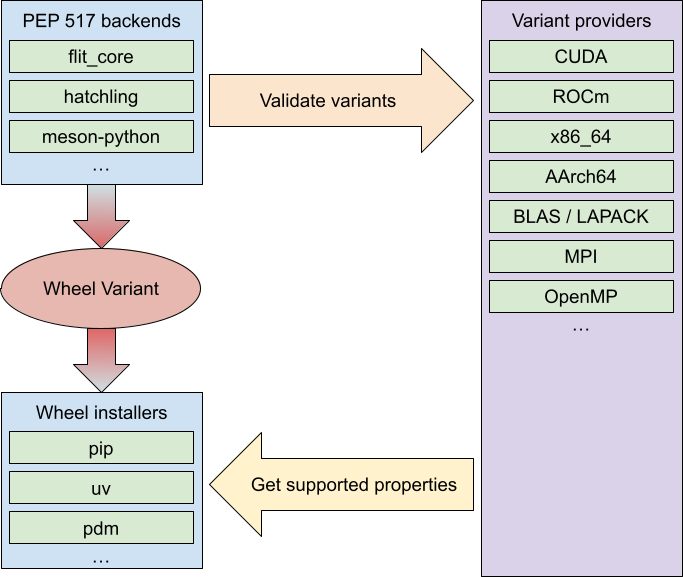
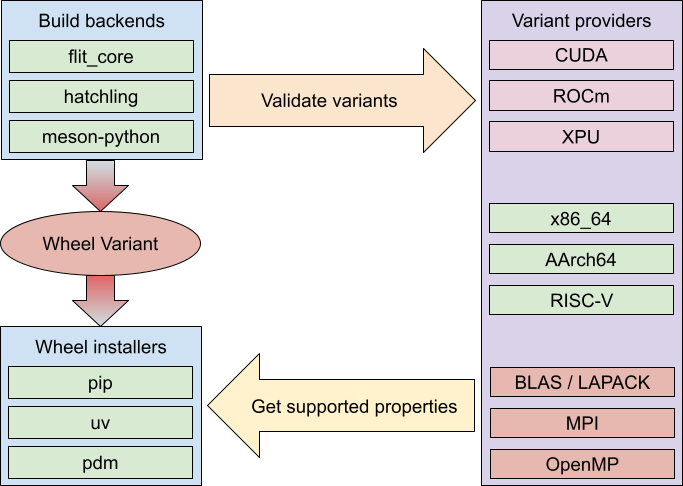
Most of the text, and some more figure work

diff --git a/apps/labs/posts/python-wheels-from-tags-to-variants.md b/apps/labs/posts/python-wheels-from-tags-to-variants.md
@@ -233,7 +233,7 @@ This is how we reached an architecture based on plugins.
 <div style={{ textAlign: "center" }}>
 <figure style={{width: 'auto', margin: '0 2em', display: 'inline-block', verticalAlign: 'top'}}>
   <img src="/posts/python-wheels-from-tags-to-variants/variant-flow.png"
-    width="683" height="577" alt="A flow chart showing interaction between
+    width="683" height="486" alt="A flow chart showing interaction between
 wheel-related software and provider plugins. A build backend (such
 as flit_core, hatchling, meson-python…) produces a Wheel Variant, which is
 then consumed by a wheel installer (pip, uv, pdm…). Alongside them, variant
@@ -267,10 +267,12 @@ we expect variant providers to be developed largely independently, putting
 these features in namespaces makes it possible to organize them logically
 and avoid name collisions. Consider the following example:
 
-<pre>nvidia :: cuda_version_lower_bound :: 12.6
+```rust
+nvidia :: cuda_version_lower_bound :: 12.6
 nvidia :: cuda_version_upper_bound :: 13
 x86_64 :: level :: v3
-x86_64 :: sha_ni :: on</pre>
+x86_64 :: sha_ni :: on
+```
 
 Yes, the syntax was inspired by [trove classifiers](https://pypi.org/classifiers/)!
 Every property is a 3-element tuple consisting of the namespace (one per plugin
@@ -503,10 +505,12 @@ order: determined by its namespace, feature name and value ordering.
 
 Let's return to our initial example and add sort keys to it:
 
-<pre>(1.1.3) nvidia :: cuda_version_lower_bound :: 12.6
-(1.2.m) nvidia :: cuda_version_upper_bound :: 13
-(2.1.1) x86_64 :: level :: v3
-(2.3.1) x86_64 :: sha_ni :: on</pre>
+```rust
+nvidia :: cuda_version_lower_bound :: 12.6  // 1.1.3
+nvidia :: cuda_version_upper_bound :: 13    // 1.2.m
+x86_64 :: level :: v3                       // 2.1.1
+x86_64 :: sha_ni :: on                      // 2.3.1
+```
 
 We sort variants according to the properties they have. While this may
 seem complex at first, it effectively follows a single rule: a variant having
@@ -552,7 +556,7 @@ provider plugin, package, user. Namespaces are shown to be ordered by the packag
 and optionally reordered by the user. Both features and their values are shown
 to be ordered by the plugin, then optionally reordered by the package and the
 user. Finally, all three keys combine into a sort key." />
-  <figcaption>Fig. Example sort order of properties</figcaption>
+  <figcaption>Fig. Ordering and construction of a property sort key</figcaption>
 </figure>
 </div>
 
@@ -590,10 +594,12 @@ and packages. And since it's no longer obligatory, having that is not a pr
 Let's consider that you are distributing a package with three CUDA variants,
 and a CPU variant. The published wheels are, in order of preference:
 
-<pre>torch-2.8.0-cp313-cp313-manylinux_2_28_x86_64-cu129.whl
+```rust
+torch-2.8.0-cp313-cp313-manylinux_2_28_x86_64-cu129.whl
 torch-2.8.0-cp313-cp313-manylinux_2_28_x86_64-cu128.whl
 torch-2.8.0-cp313-cp313-manylinux_2_28_x86_64-cu126.whl
-torch-2.8.0-cp313-cp313-manylinux_2_28_x86_64.whl        # CPU-only</pre>
+torch-2.8.0-cp313-cp313-manylinux_2_28_x86_64.whl        // CPU-only
+```
 
 Such a setup provides for a graceful fallback. When you are using an older
 CUDA version, the top variants are filtered out and the lower variants are used.
@@ -609,11 +615,13 @@ CUDA version).
 
 This is where the null variant comes in. Consider the following instead:
 
-<pre>torch-2.8.0-cp313-cp313-manylinux_2_28_x86_64-cu129.whl
+```rust
+torch-2.8.0-cp313-cp313-manylinux_2_28_x86_64-cu129.whl
 torch-2.8.0-cp313-cp313-manylinux_2_28_x86_64-cu128.whl
 torch-2.8.0-cp313-cp313-manylinux_2_28_x86_64-cu126.whl
-torch-2.8.0-cp313-cp313-manylinux_2_28_x86_64-00000000.whl  # CPU-only
-torch-2.8.0-cp313-cp313-manylinux_2_28_x86_64.whl           # CUDA + CPU</pre>
+torch-2.8.0-cp313-cp313-manylinux_2_28_x86_64-00000000.whl  // CPU-only
+torch-2.8.0-cp313-cp313-manylinux_2_28_x86_64.whl           // CUDA + CPU
+```
 
 What we added here is a null variant, with label `00000000`. Since it has
 no properties, it is always supported — that is, as long as variants
@@ -625,7 +633,167 @@ CUDA and CPU support.
 
 Does it really matter? Well, that depends on how you look at it. While wheel
 variant support remains early, backwards compatibility is going to be important.
-And providing a different fallback may mean the difference between a 175 MiB
-CPU-only wheel, and a 850 MiB CUDA wheel.
+And providing a different fallback may mean the difference between installing
+a 175 MiB CPU-only wheel, and a 850 MiB CUDA wheel installed on a system
+without the CUDA runtime.
+
+## Multiple property values
+
+So far, we have discussed wheels that have a single value for every feature
+used. Say, a wheel that is optimized for a particular CPU architecture version,
+or has one CUDA version lower bound and one upper bound. The key point here
+is that for a variant to be compatible, all its features had to have a value
+compatible with the system in question. This logic is conjunctive — representing
+logical `AND`. You need to have a supported CPU, and a CUDA version that is
+not older than the lower bound, and a CUDA version (the same one) that is older
+than the upper bound.
+
+A interesting case for this logic are CPU instruction sets. Each
+instruction set is represented by a separate feature, with a single possible
+value of `on`. If the user's CPU supports a given instruction set, it supports
+said `on` value; if it doesn't, it has no compatible values. A wheel requiring
+said instruction set includes this property with the `on` value.
+And for the wheel to be compatible, all its features — in other words, all
+listed instruction sets — need to be supported.
+
+Now consider a converse example: you are building a CUDA-enabled package
+that supports half a dozen series of GPUs. You don't want to build a separate
+wheel for every GPU — that would be a lot of wheels with significant overlap.
+You want to build a single wheel and declare it compatible with multiple GPUs.
+Conjunctive logic can't work here — you need disjunction, an `OR`.
+
+Specifically for this use case, we introduced the ability to specify multiple
+values for the same feature — with the assumption that at least one value
+must be supported for the wheel to be compatible. Consider the following
+property list:
+
+```rust
+nvidia :: sm_arch :: 70_real
+nvidia :: sm_arch :: 75_real
+nvidia :: sm_arch :: 80_real
+nvidia :: sm_arch :: 86_real
+nvidia :: sm_arch :: 90_real
+nvidia :: sm_arch :: 100_real
+nvidia :: sm_arch :: 120_real
+nvidia :: sm_arch :: 120_virtual
+```
+
+It is equivalent to the following build parameter:
+
+```sh
+TORCH_CUDA_ARCH_LIST="7.0;7.5;8.0;8.6;9.0;10.0;12.0+PTX"
+```
+
+Note the reversal of semantics. Previously, the wheel did declare what
+it _required_, and the plugin would indicate what the system _provided_.
+Here, we are seeing the exact opposite: the wheel declares what it _supports_,
+and the plugin declares what support the system _requires_. Your system has
+some GPU and therefore _requires_ its support in the package. If said architecture
+is on the list of *supported* architectures, the wheel is considered compatible;
+if it is not, it is rejected.
+
+Of course, the specification is far from providing an exhaustive boolean logic
+that could support all possible use cases. For example, you can't express
+a wheel that provides _both_ CUDA and ROCm support, and that would be compatible
+with a system that has either CUDA or ROCm capability, but incompatible
+with a system without either. Nor can you express that your package has
+two algorithms using different sets of instruction sets, but requires at least
+one of them. However, our goal so far was to keep things simple whenever
+possible, and focus on the most likely use cases. And in the end, it is always
+possible (though not necessarily recommended) to create a dedicated provider
+plugin to cover the specific use case.
+
+So, at this point, different features are conjunctive (_all_ of them must
+be supported), but different values within a single feature are disjunctive
+(_at least one_ of them must be supported).
 
 ## Static and dynamic plugins
+
+So far we have been assuming that the lists of allowed features and their
+values are roughly fixed. A particular version of the `x86_64` plugin implements
+the properties for a certain range of architecture levels: say, `v4` and lower.
+We can't predict what `v5` will be like, and a new plugin version will need
+to be released to introduce its support. However, this is not a huge problem,
+as new architecture levels are introduced relatively rarely. This is what
+a static plugin is — one where the list of all valid property values
+is supposed to remain the same within a single version, and therefore the list
+ofsupported properties is independent of what packages are being installed.
+
+Now let's consider a different use case: we need to express a dependency
+on a runtime whose version changes frequently, and is not predictable.
+Said version could be `1.0.0`, `1.2.2`, `2.0.10`, `2.3.99`… We're facing
+two problems here. Firstly, the list of all valid values can be very long
+(to be precise, infinitely long). Secondly, we can't fully predict what
+the future versions will be.
+
+Let's start with the lower bound. If the system has version `1.2.2` installed,
+the plugin needs to be declare compatibility with wheels that have a lower bound
+no higher than that: `>=1.2.2`, `>=1.2.1`, `>=1.2.0`… but what is the highest
+value of `>=1.1.n` that we need to support? And what if sometimes upstream
+releases four-component versions, like `1.2.2.1`? With upper bound, things
+get even worse. Here we actually have to declare compatibility with versions
+higher than the current version: `<1.2.4`, `<1.2.5`… ad infinitum.
+
+<div style={{ textAlign: "center" }}>
+<figure style={{width: 'auto', margin: '0 2em', display: 'inline-block', verticalAlign: 'top'}}>
+  <img src="/posts/python-wheels-from-tags-to-variants/variant-flow-dynamic.png"
+    width="683" height="486" alt="A flow chart showing interaction between
+wheel-related software and dynamic provider plugins. A build backend (such
+as flit_core, hatchling, meson-python…) produces a Wheel Variant, which is
+then consumed by a wheel installer (pip, uv, pdm…). Alongside them, variant
+providers (CUDA, ROCm, x86_64, AArch64, BLAS / LAPACK, MPI, OpenMP…) are shown.
+Build backends communicate with them to validate variants, wheras installers
+do to verify whether the wheels are compatible." />
+  <figcaption>Fig. Interaction between wheel software and dynamic provider plugins</figcaption>
+</figure>
+</div>
+
+Dynamic plugins were supposed to address precisely this problem. The difference
+is that a dynamic plugin does not return a fixed list of all supported
+properties for a given machine, but rather directly determines which
+of the available wheel variants are compatible. This implies that there
+does not need to exist a fixed list of valid properties. Instead, the plugin
+can document a specific format for the property value, and process it
+algorithmically to determine its compatibility.
+
+Let's revisit the version problem. The thing is: we don't have to predict
+versions anymore! Instead, we document that the lower bound value
+and the upper bound value both are version strings. When building the wheel,
+the plugin verifies that valid version strings are passed. When installing
+wheels, it parses the values as version strings and compares them
+to the installed version. In fact, we can do even better: instead of separate
+lower and upper bounds, we can have a single property that is a version
+specifier, say, `>=1.2.2,<3,!=1.7.4,!=1.8.1`. This makes it both more flexible
+and more readable.
+
+So, dynamic plugins can do all that static plugins can do, and more.
+Why do we need two plugin classes then? Why can't we just call it a day,
+say that we've found a better design and go with it? The advantage
+of static plugins is that they are, well, static. Their behavior does not depend
+on the package being installed, they don't need to know what variants
+are available and therefore their results can be reused easily. You just run
+the plugin, snapshot the result and you can reuse it for any package you
+install.
+
+This becomes especially important when we get around to discuss security.
+As I've mentioned earlier, querying a variant plugin effectively means
+installing packages and executing their code immediately. One clear
+way to circumvent this is to use a frozen plugin output instead of running
+the plugin locally. Say, you could snapshot the output from another environment
+with a compatible setup, or even create one manually.
+
+However, this can only
+work if the output is either fixed or reasonably predictable. You can snapshot
+a limited length list of compatible CPU architecture versions, but you can't
+snapshot all possible version specifiers. With dynamic plugins, the best you
+can do is prepare the output for a predefined set of possible values (possibly
+grabbed from existing wheels) and recheck whenever you find new values.
+
+In fact, this problem is considered significant enough that the [nvidia provider
+plugin created for the demo](https://github.com/wheelnext/nvidia-variant-provider)
+was reverted to being a static plugin, with the possibility of creating
+a separate dynamic plugin if the need arises in the future. Even though it means
+that it effectively guesses future versions of CUDA runtime! Fortunately,
+they are reasonably predictable.
+
+## Summary, and the future
